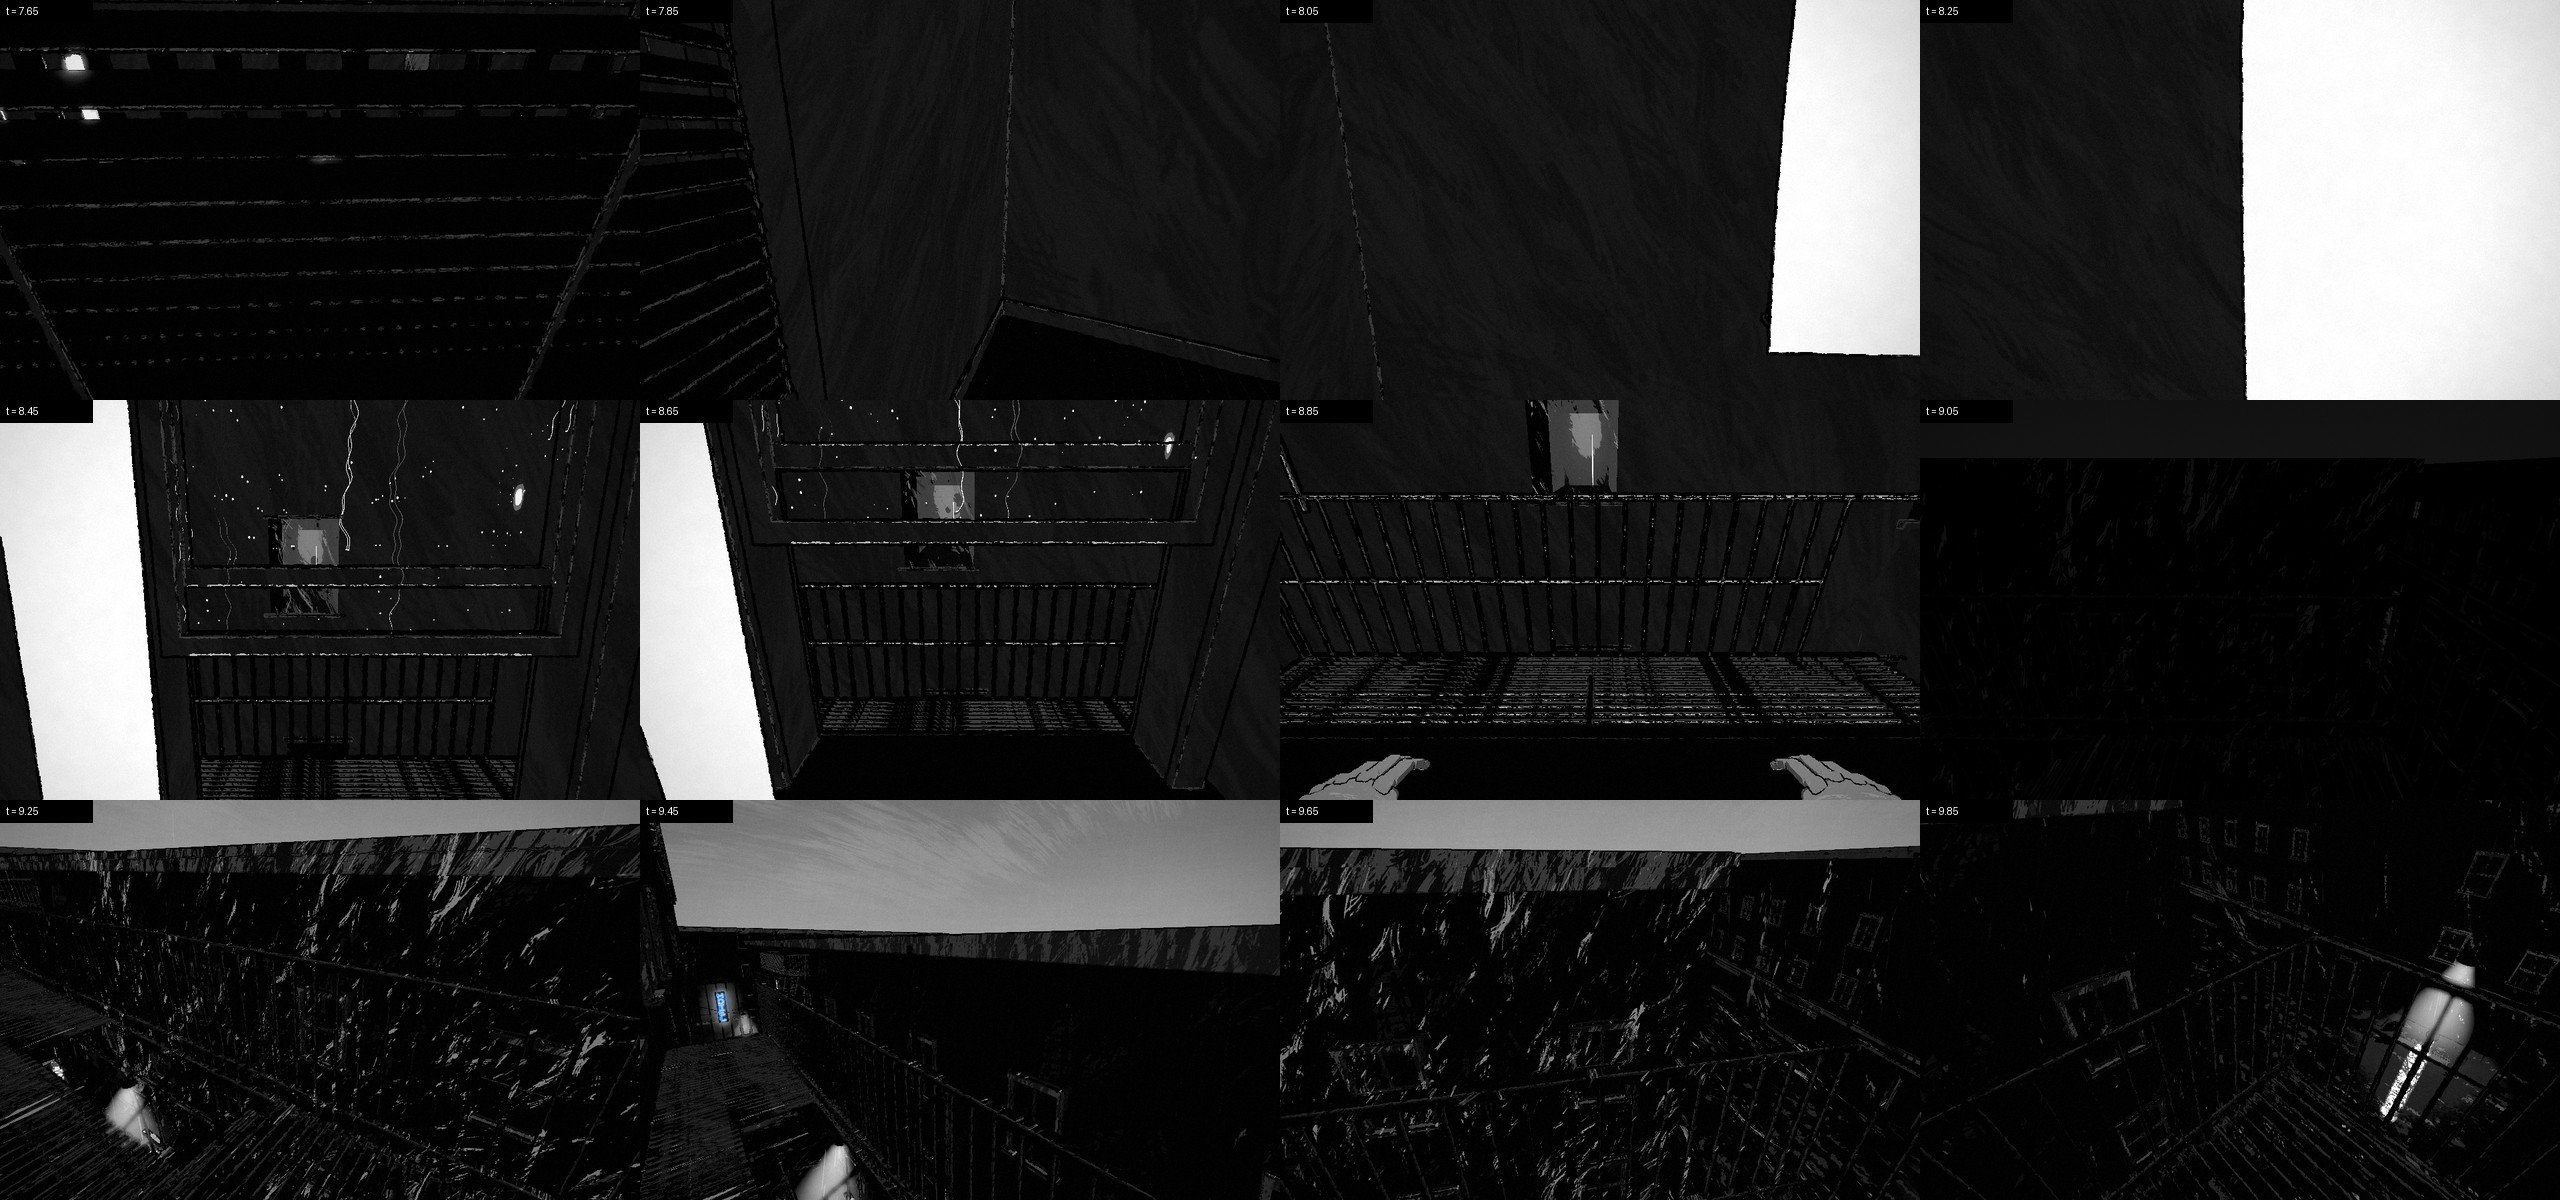
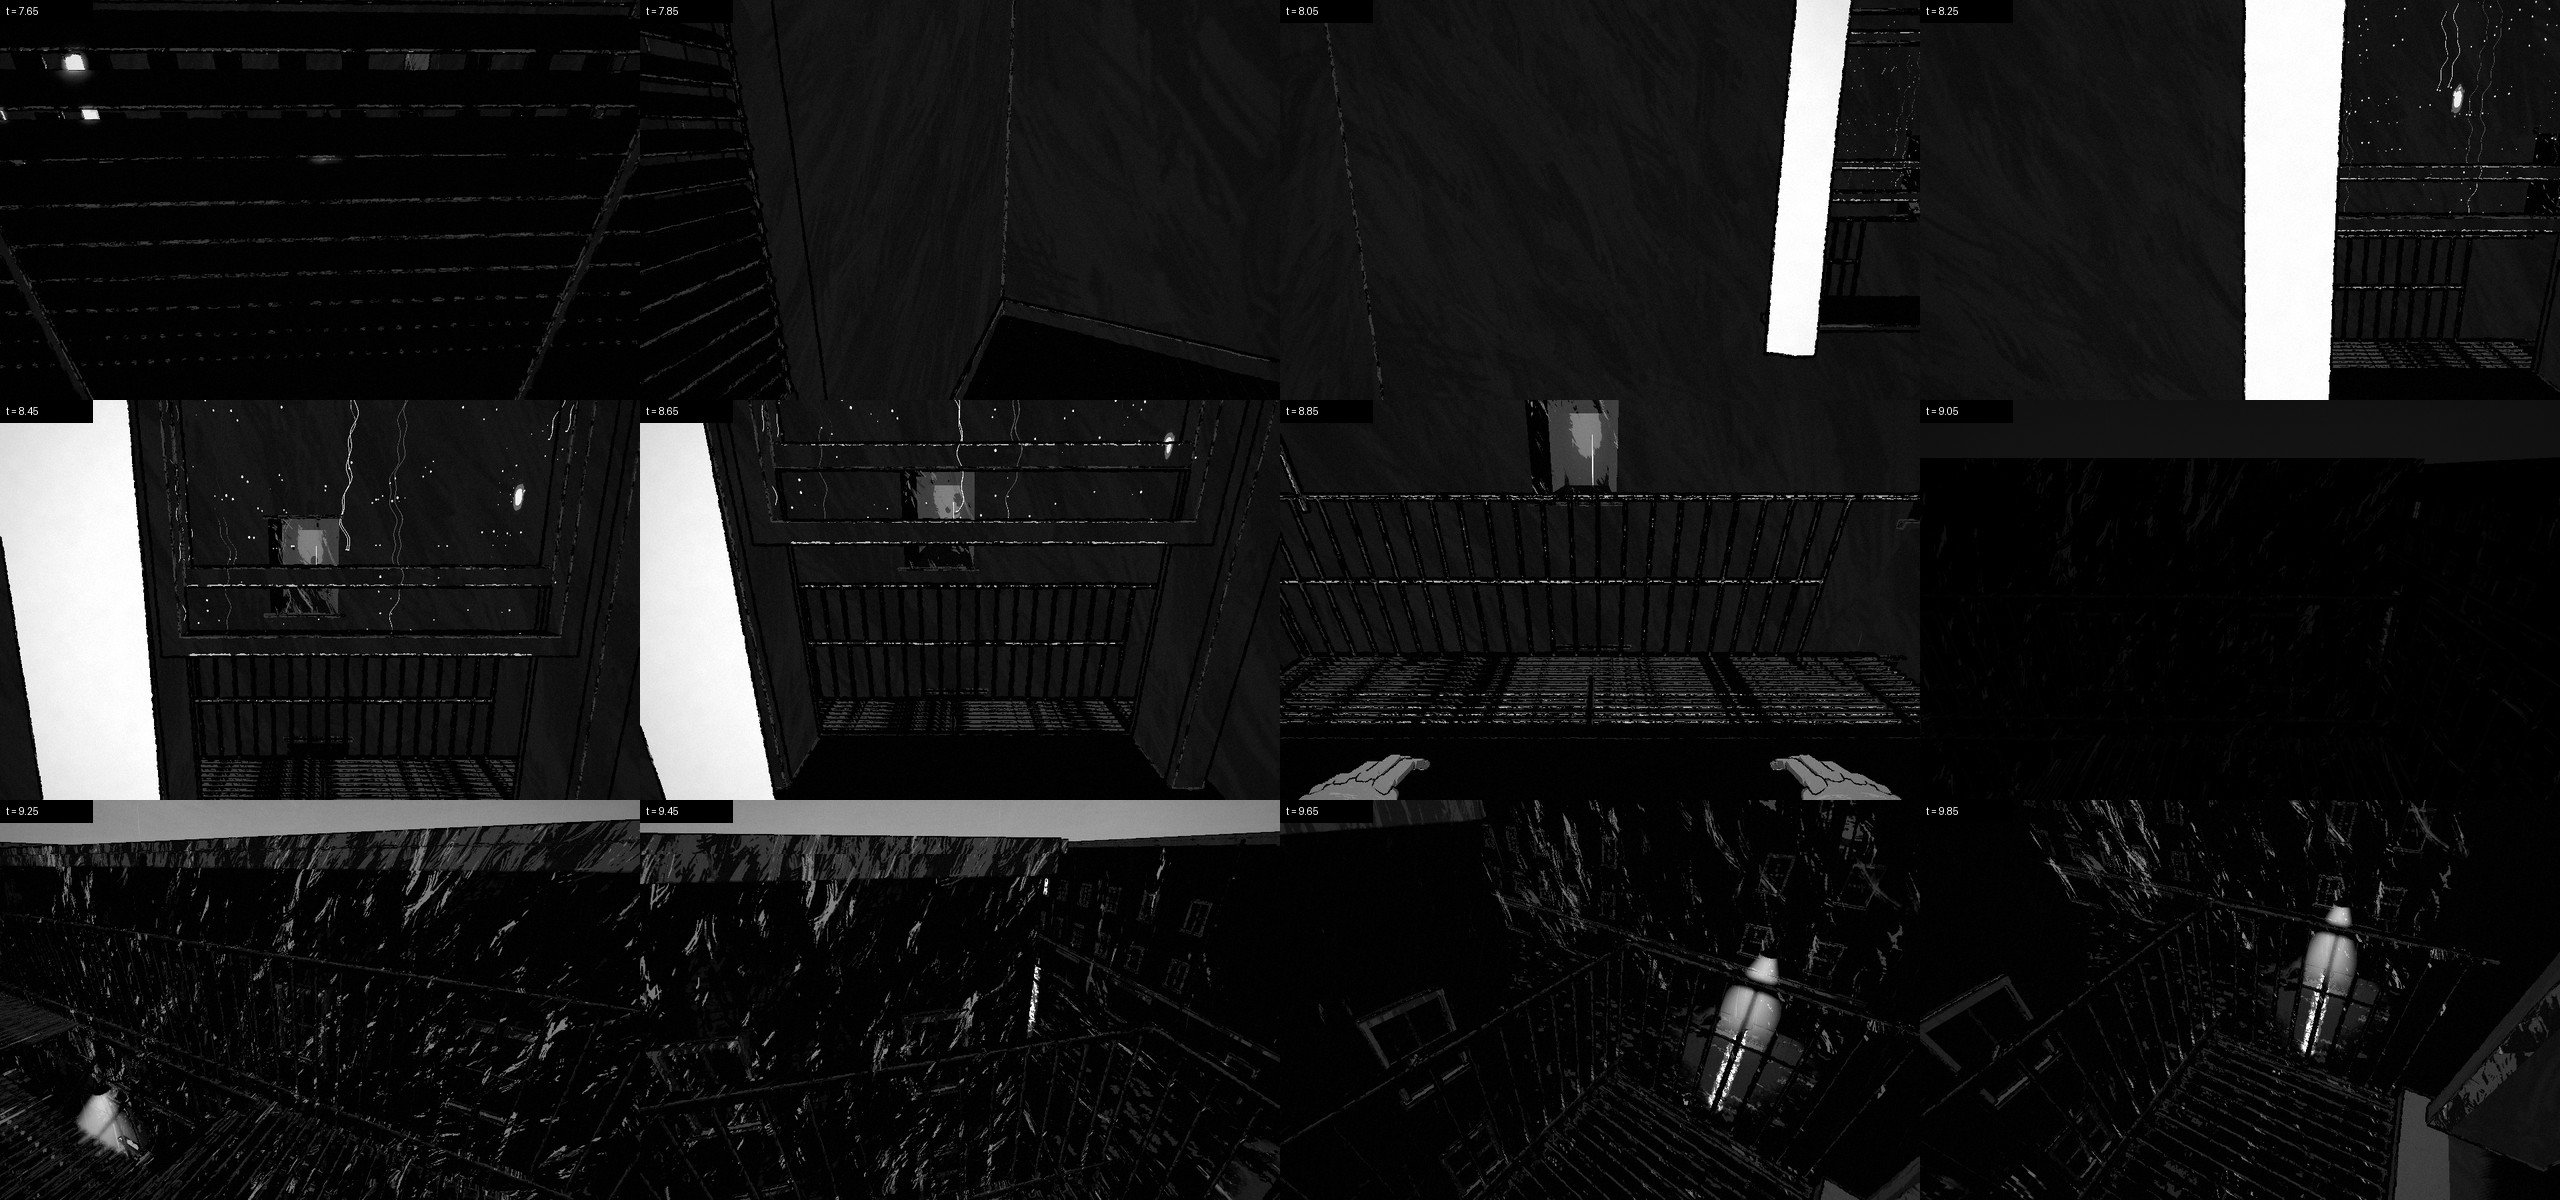
R2-C watcher: the escape window's curtain hangs pushed aside while the scene is in the office (it no longer fills the frame and jumps aside as I come to it); strip s4 again

diff --git a/src/scenes/06_watcher.js b/src/scenes/06_watcher.js
@@ -6,7 +6,7 @@ import { makeUmbrella } from './watcher/umbrella.js';
 import { makeBlind } from './watcher/blind.js';
 import { RUNHANDS } from '../player/clips/run.js';
 import { SLAT, DOOR } from '../player/clips/watcher.js';
-import { officeStreet, officeAfterFight, makeOfficeBlind, officeRun, wayOut, WAY_OUT } from './watcher/office.js';
+import { officeStreet, officeAfterFight, makeOfficeBlind, officeRun, wayOut, WAY_OUT, curtainAside } from './watcher/office.js';
 import { ROOM as OROOM, STREET as STREET_O } from '../stages/office/plan.js';
 import { BLIND as OBLIND } from '../stages/office/build/openings.js';
 
@@ -513,6 +513,12 @@ function atOfficeWindow(ctx, C, O) {
   G.enterStage(O);
   officeStreet(O);
   officeAfterFight(O);
+  // (the escape window's curtain aside while the scene is in the office;
+  // hung again when it leaves - through the window, or any other way)
+  curtainAside(O, 1);
+  if (!O._r2cCurtainHook) {
+    O._r2cCurtainHook = G.on('scene:exit', () => curtainAside(O, 0));
+  }
   const aw = O.anchor('office.window.street'), sw = O.anchor('office.street.watcher');
   // him under the lamp across the street, the umbrella up, looking up at
   // this window
@@ -618,13 +624,9 @@ function* outOfOffice(ctx) {
   RUNHANDS.plantR.set(W.x - 0.24, W.sill + 0.012, W.wall + 0.035);
   RUNHANDS.plantL.set(W.x + 0.24, W.sill + 0.012, W.wall + 0.035);
   let cur = null, black = 0, t = 0, steps = 0, sill = false;
-  // the curtain over the window (B2's, drawn across it): swept aside to its
-  // far side as I come to it - gathered on its rod, its outer edge where it
-  // was - and hung again behind the black
-  const room = ctx.flags.office.part('office');
-  const cm = room && room.curtain && room.curtain.mesh;
-  const c0 = cm ? { x: cm.position.x, s: cm.scale.x, w: room.curtain.w } : null;
-  let swept = 0, swish = false;
+  // (the curtain, pushed aside to the window's far side since the setup:
+  // its cloth brushed as I go past it)
+  let swish = false;
   G.controller.setMode('cutscene', { ease: 0.05, track: (tt) => { cur = track(tt); return cur.pose; } });
   yield until(() => {
     const dt = 1 / 60;
@@ -632,13 +634,7 @@ function* outOfOffice(ctx) {
     // (my feet on the boards across the room, the palms slapped on the sill)
     if (steps < 3 && t > 0.22 + steps * 0.24) { steps++; G.sfx.step(null, true, true, true); }
     if (!sill && cur && cur.duck > 0.45) { sill = true; G.sfx.play('w_sill', V(W.x, W.sill, W.wall)); }
-    if (cm && cur && W.wall - cur.pose.z < 1.0) {
-      if (!swish) { swish = true; G.sfx.play('w_curtain', V(W.x, 1.4, W.wall - 0.1)); }
-      swept = Math.min(1, swept + dt / 0.22);
-      const k = swept * swept * (3 - 2 * swept), sc = c0.s * (1 - 0.82 * k);
-      cm.scale.x = sc;
-      cm.position.x = c0.x + (c0.w / 2) * (c0.s - sc);
-    }
+    if (!swish && cur && W.wall - cur.pose.z < 0.55) { swish = true; G.sfx.play('w_curtain', V(W.x + 0.35, 1.4, W.wall - 0.1)); }
     // (a quick stride across the room, the hands low; then down to the sill)
     RUNHANDS.phase += dt * 9;
     RUNHANDS.k += ((cur && cur.duck > 0.05 ? 0 : 0.35) - RUNHANDS.k) * (1 - Math.exp(-dt * 8));
@@ -648,7 +644,7 @@ function* outOfOffice(ctx) {
     return black >= 1;
   });
   G.hud.fade(1);
-  if (cm) { cm.scale.x = c0.s; cm.position.x = c0.x; }
+  curtainAside(ctx.flags.office, 0);
   // the backlot: the same window of the same building, the eye under its
   // sash as it was under the office's; him running for the side alley
   const pitch = G.controller.pitch;

diff --git a/src/scenes/watcher/office.js b/src/scenes/watcher/office.js
@@ -43,6 +43,21 @@ export function officeAfterFight(O) {
   void ODOOR;
 }
 
+// B2's curtain over the fire-escape window, pushed aside to the window's
+// far side (k 1: gathered on its rod, its outer edge where it hung; 0: as
+// B2 hangs it) - the way out goes through the window, and the man at the
+// window in the gunfight had it aside. A scale on its mesh (its own cloth
+// motion is in its vertices); given back when the scene leaves the office.
+export function curtainAside(O, k) {
+  const room = O.part('office');
+  const cm = room && room.curtain && room.curtain.mesh;
+  if (!cm) return;
+  const c0 = O._r2cCurtain0 || (O._r2cCurtain0 = { x: cm.position.x, s: cm.scale.x, w: room.curtain.w });
+  const sc = c0.s * (1 - 0.82 * k);
+  cm.scale.x = sc;
+  cm.position.x = c0.x + (c0.w / 2) * (c0.s - sc);
+}
+
 // ---- the blind ----------------------------------------------------------------------------
 // B2's slat: a crowned strip, width along x (the street side +x), its length
 // along z, tilted about z (street edge up) - openings.js buildBlind
